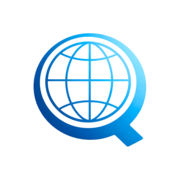
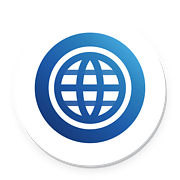
Published your App
Replit-Commit-Author: Deployment
Replit-Commit-Session-Id: caa344a4-6e1f-492d-b7ee-0682690df0fe
Replit-Commit-Checkpoint-Type: full_checkpoint
Replit-Commit-Event-Id: 83a89580-04b9-4c7b-8380-182d3a591498
Replit-Commit-Screenshot-Url: https://storage.googleapis.com/screenshot-production-us-central1/e3cf9b31-804b-4fc2-b0ca-033484072918/caa344a4-6e1f-492d-b7ee-0682690df0fe/bwUBQLZ
Replit-Commit-Deployment-Build-Id: 576fdb17-d18e-4b09-b009-1ae2512c1d6f
Replit-Helium-Checkpoint-Created: true

diff --git a/server/seoPublic.ts b/server/seoPublic.ts
@@ -85,14 +85,15 @@ function redirect301(res: Response, target: string): void {
 
 function injectAbsoluteFavicons(html: string, origin: string): string {
   const base = normalizePublicOrigin(origin);
-  // 48x48 PNG first — Google Search uses the homepage icon link; favicon.ico here is only 16/32px.
+  // Cache-bust so Google/browsers pick up the glass icon; 48px PNG first for Search.
+  const v = "20260721d";
   const iconBlock = [
-    `<link rel="icon" type="image/png" sizes="48x48" href="${base}/favicon-48.png" />`,
-    `<link rel="icon" type="image/png" sizes="192x192" href="${base}/favicon-192.png" />`,
-    `<link rel="shortcut icon" href="${base}/favicon-48.png" />`,
-    `<link rel="icon" href="${base}/favicon.ico" sizes="32x32" />`,
-    `<link rel="apple-touch-icon" href="${base}/apple-touch-icon.png" />`,
-    `<link rel="manifest" href="${base}/site.webmanifest" />`,
+    `<link rel="icon" type="image/png" sizes="48x48" href="${base}/favicon-48.png?v=${v}" />`,
+    `<link rel="icon" type="image/png" sizes="192x192" href="${base}/favicon-192.png?v=${v}" />`,
+    `<link rel="shortcut icon" href="${base}/favicon-48.png?v=${v}" />`,
+    `<link rel="icon" href="${base}/favicon.ico?v=${v}" sizes="48x48" />`,
+    `<link rel="apple-touch-icon" href="${base}/apple-touch-icon.png?v=${v}" />`,
+    `<link rel="manifest" href="${base}/site.webmanifest?v=${v}" />`,
   ].join("\n    ");
   let out = html.replace(/<link\s+rel="icon"[^>]*>\s*/gi, "");
   out = out.replace(/<link\s+rel="apple-touch-icon"[^>]*>\s*/gi, "");

diff --git a/client/index.html b/client/index.html
@@ -3,12 +3,12 @@
   <head>
     <meta charset="UTF-8" />
     <meta name="viewport" content="width=device-width, initial-scale=1.0, viewport-fit=cover" />
-    <link rel="icon" type="image/png" sizes="48x48" href="https://prs-atlas.com/favicon-48.png" />
-    <link rel="icon" type="image/png" sizes="192x192" href="https://prs-atlas.com/favicon-192.png" />
-    <link rel="shortcut icon" href="https://prs-atlas.com/favicon-48.png" />
-    <link rel="icon" href="https://prs-atlas.com/favicon.ico" sizes="32x32" />
-    <link rel="apple-touch-icon" href="https://prs-atlas.com/apple-touch-icon.png" />
-    <link rel="manifest" href="https://prs-atlas.com/site.webmanifest" />
+    <link rel="icon" type="image/png" sizes="48x48" href="https://prs-atlas.com/favicon-48.png?v=20260721d" />
+    <link rel="icon" type="image/png" sizes="192x192" href="https://prs-atlas.com/favicon-192.png?v=20260721d" />
+    <link rel="shortcut icon" href="https://prs-atlas.com/favicon-48.png?v=20260721d" />
+    <link rel="icon" href="https://prs-atlas.com/favicon.ico?v=20260721d" sizes="48x48" />
+    <link rel="apple-touch-icon" href="https://prs-atlas.com/apple-touch-icon.png?v=20260721d" />
+    <link rel="manifest" href="https://prs-atlas.com/site.webmanifest?v=20260721d" />
     <style>
       #seo-crawler-nav {
         position: absolute;

diff --git a/server/scripts/verifySeoPublic.ts b/server/scripts/verifySeoPublic.ts
@@ -29,7 +29,7 @@ assert.match(home, /rel="canonical" href="https:\/\/prs-atlas\.com\/"/);
 assert.match(home, /content="index, follow"/);
 assert.match(home, /name="keywords"/);
 assert.match(home, /id="atlas-structured-data"/);
-assert.match(home, /href="https:\/\/prs-atlas\.com\/favicon-48\.png"/);
+assert.match(home, /href="https:\/\/prs-atlas\.com\/favicon-48\.png\?v=/);
 assert.match(home, /id="seo-crawler-nav"/);
 assert.match(home, /href="https:\/\/prs-atlas\.com\/pricing"/);
 assert.doesNotMatch(home, /"FAQPage"/);

diff --git a/shared/seoStructuredData.ts b/shared/seoStructuredData.ts
@@ -22,7 +22,7 @@ function organizationAndWebSite(meta: PublicPageSeo, origin: string): Record<str
       url: origin,
       logo: {
         "@type": "ImageObject",
-        url: `${origin}/favicon-192.png`,
+        url: `${origin}/favicon-192.png?v=20260721d`,
         width: 192,
         height: 192,
       },
